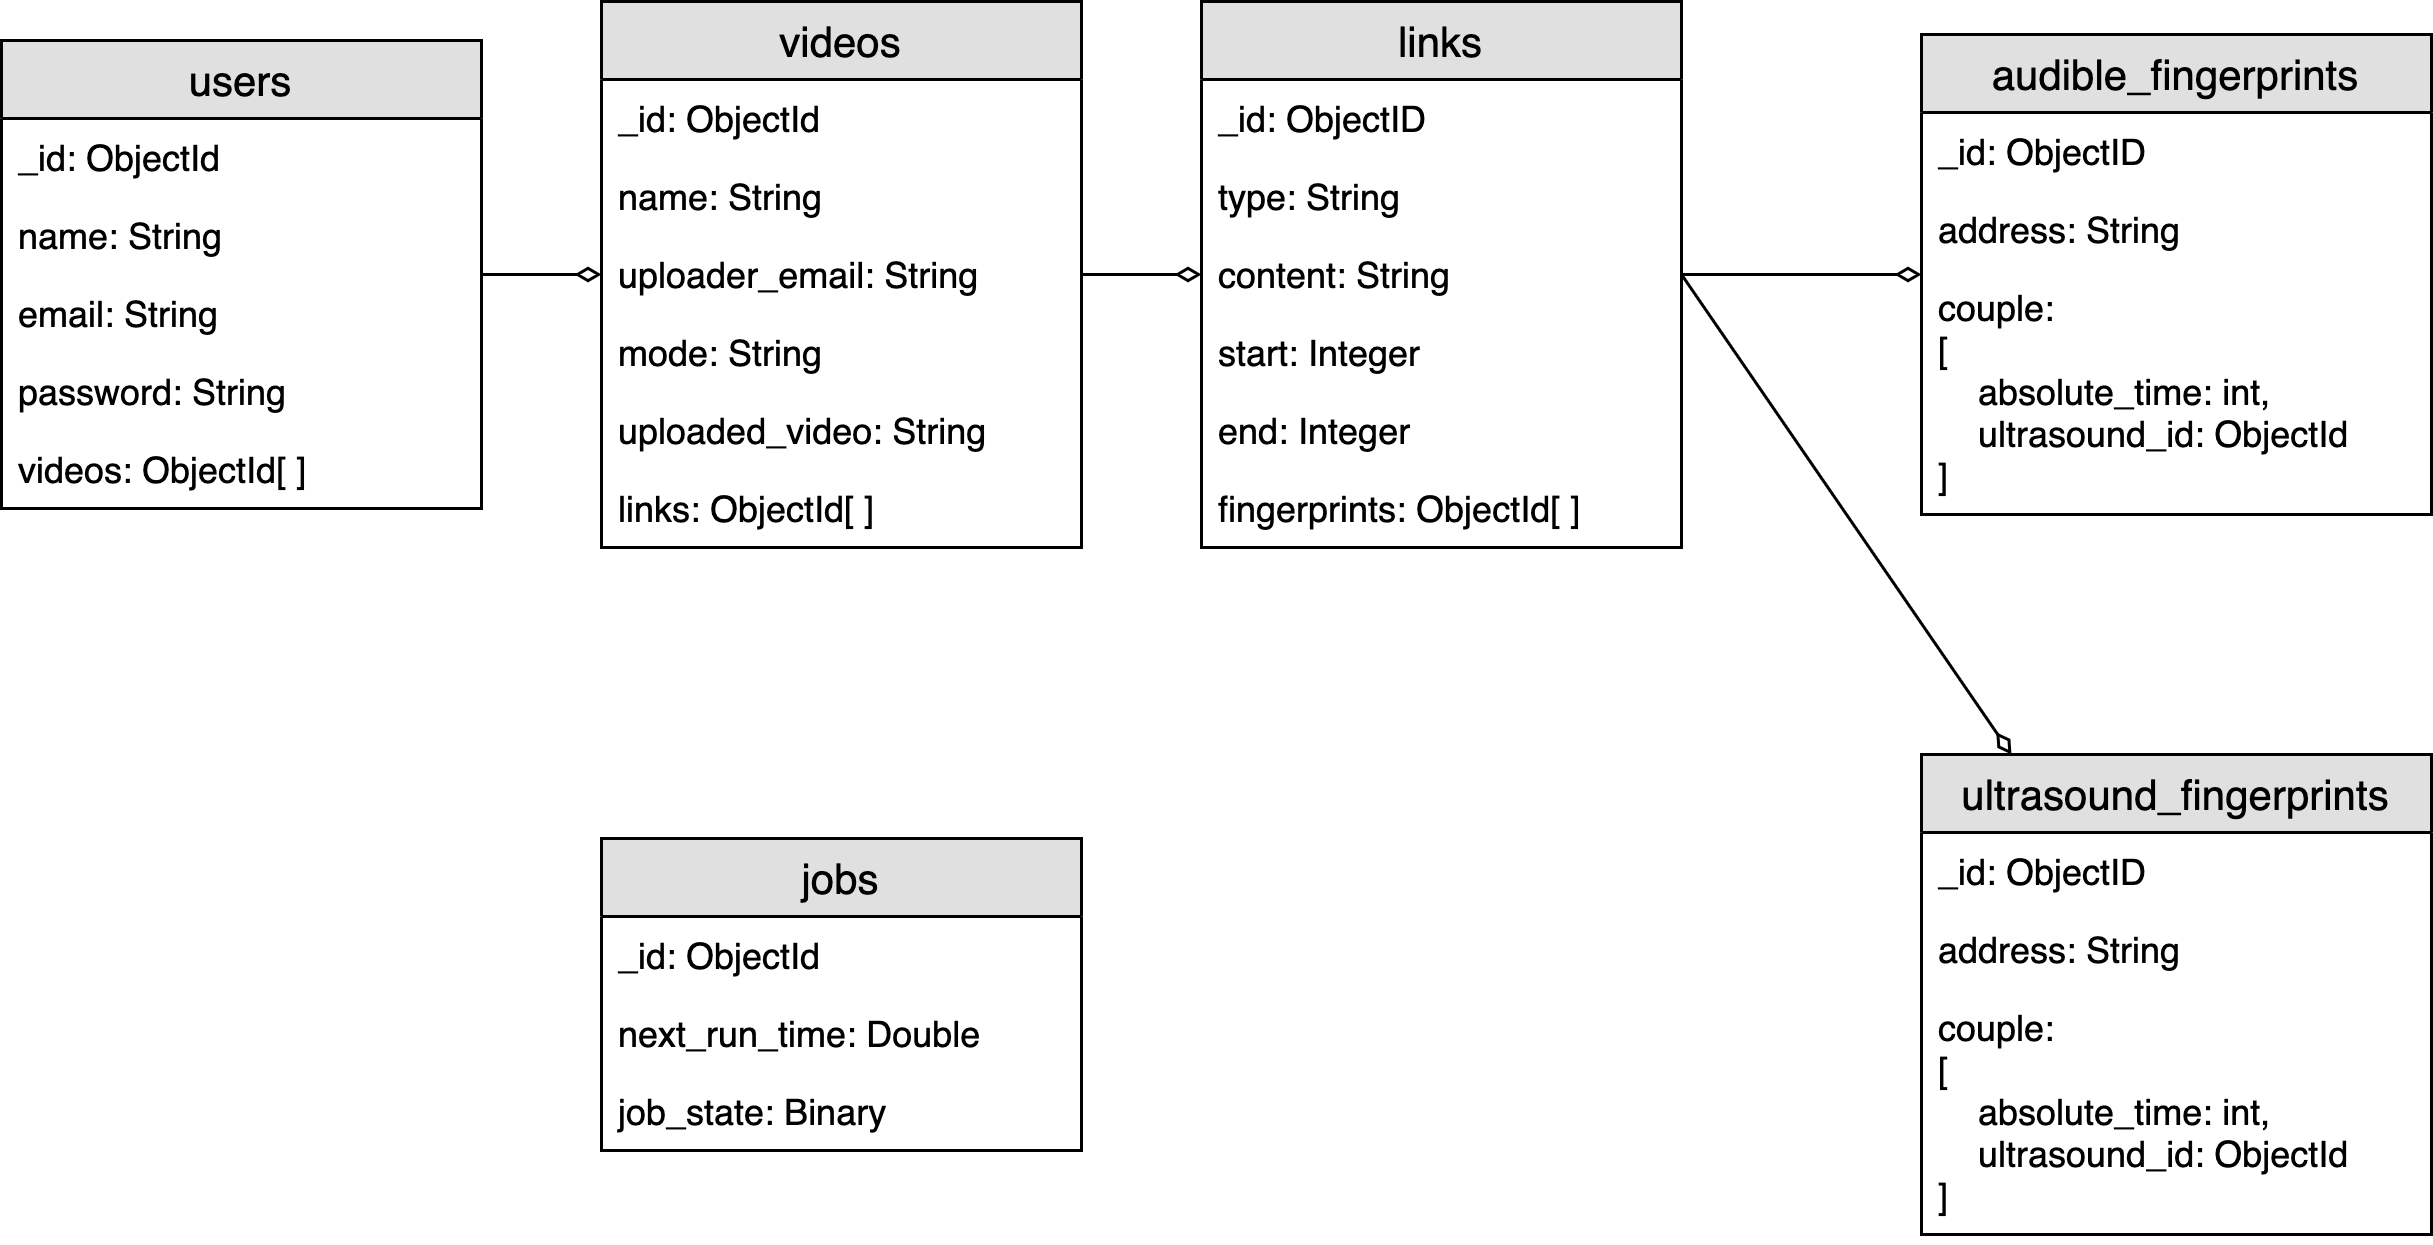
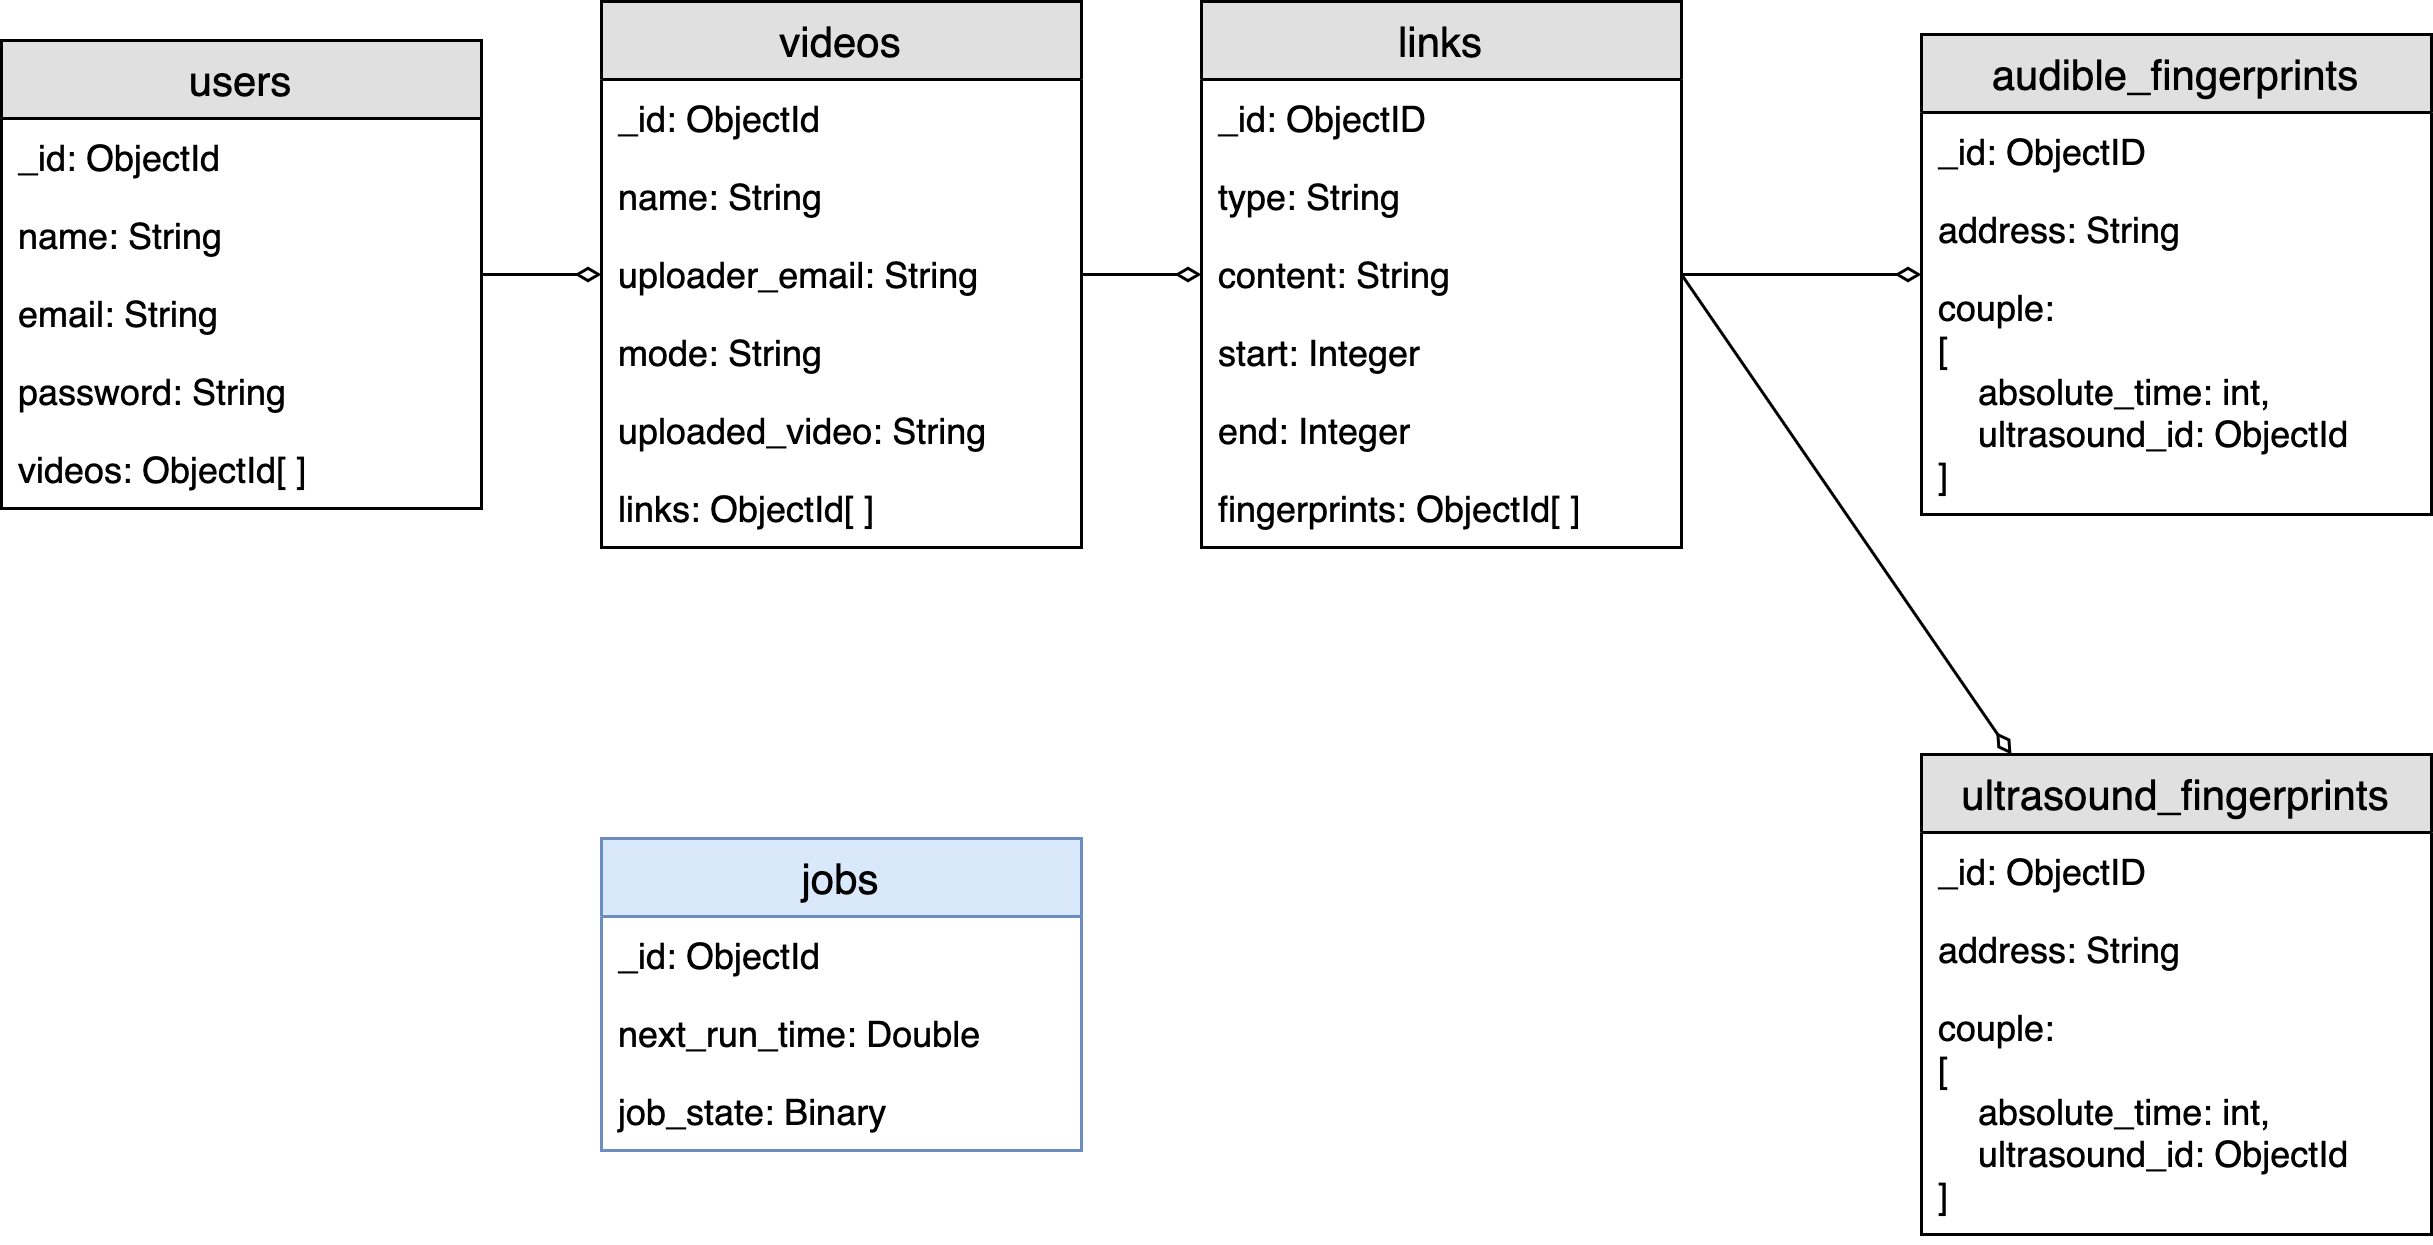
update diagrams

Changed region(s): [[0.2187, 0.6715, 0.4686, 0.7631]]

diff --git a/Diagrams/README.md b/Diagrams/README.md
@@ -1,0 +1,5 @@
+# Diagrams
+
+.drawio files can be opened with [draw.io](https://drawio-app.com/).
+
+.png files have drawio data embedded in them. They can also be opened with [draw.io](https://drawio-app.com/) to edit.
